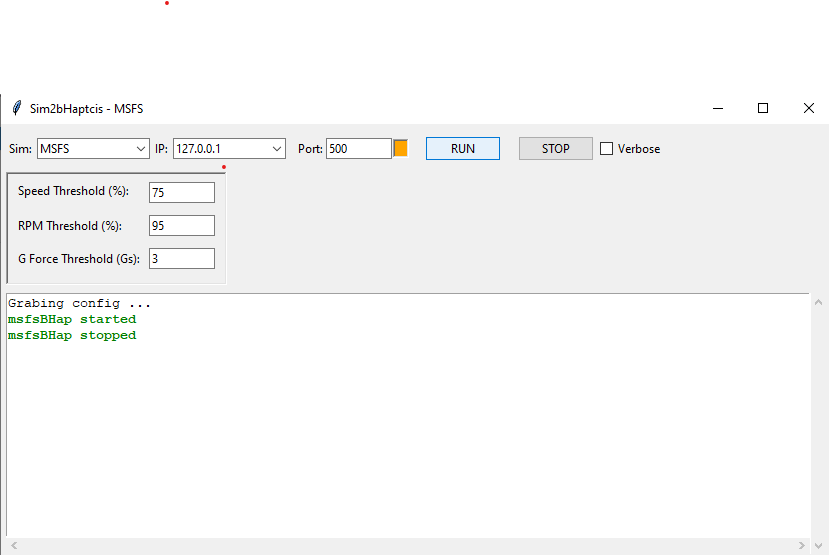
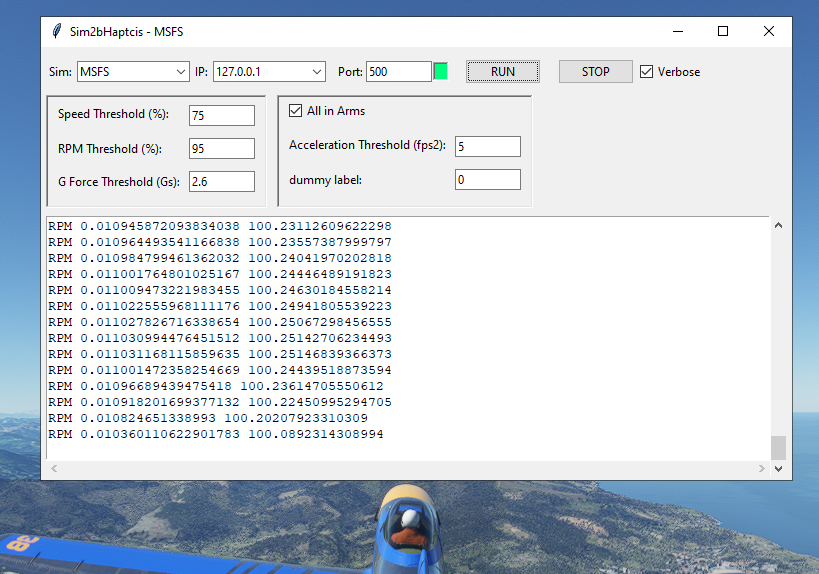
v0.2 with support for impacts, flaps and landing gear

diff --git a/sim2bhap/msfsBHap.py b/sim2bhap/msfsBHap.py
@@ -4,6 +4,7 @@ from simconnect import SimConnect, PERIOD_VISUAL_FRAME
 import haptic_player
 import os
 import time
+import math
 import traceback
 
 varList = ["GENERAL ENG PCT MAX RPM:1", "AIRSPEED MACH", "BARBER POLE MACH",
@@ -18,7 +19,7 @@ class Sim():
     self.rpmThreshold = 0.95
     self.gfeThreshold = 3
     self.fullArms = False
-    self.landThreshold = 1
+    self.landThreshold = 5
     self.player = haptic_player.HapticPlayer()
     
   def play(self, name, intensity, altname):
@@ -30,10 +31,11 @@ class Sim():
     self.cycle = 0
     self.ValueDict = {}
     self.sc = None
-    self.lastGeforce = None
+    self.lastAcel = None
+    self.lastFlapPos = None
+    self.lastGearPos = None
     errCode = 'valid'
     try:
-      print (self.gfeThreshold)
       #player.initialize()
       
       # tact file can be exported from bhaptics designer
@@ -41,6 +43,8 @@ class Sim():
       self.player.register("msfs_vrpm", "msfs_vrpm.tact")
       self.player.register("msfs_vgfe", "msfs_vgfe.tact")
       self.player.register("msfs_arpm", "msfs_arpm.tact")
+      self.player.register("msfs_vace", "msfs_vace.tact")
+      self.player.register("msfs_vfla", "msfs_vfla.tact")
       # open a connection to the SDK
       # or use as a context via `with SimConnect() as sc: ... `
       self.sc = SimConnect()
@@ -83,6 +87,25 @@ class Sim():
       
       for varName in self.datadef.simdata:
         self.ValueDict[varName] = self.datadef.simdata[varName]
+
+      impactForce = 0
+      acelX = self.datadef.simdata["ACCELERATION BODY X"]
+      acelZ = self.datadef.simdata["ACCELERATION BODY Z"]
+      acel2 = math.sqrt(abs(acelX*acelZ))
+      acelY = self.datadef.simdata["ACCELERATION BODY Y"]
+      acel = math.sqrt(abs(acelY*acel2))
+      if (self.lastAcel is not None):
+        acelChange = abs(acel - self.lastAcel)
+        impactForce = (acelChange - self.landThreshold) / 50.0
+      self.lastAcel = acel
+      
+      if impactForce > 0.1:
+        msg += "Ace {} {}\n".format(impactForce, acelChange)
+        self.play("msfs_arpm", impactForce, "alt1") 
+        self.play("msfs_vace", impactForce, "alt2") 
+
+      if self.cycle % 3 != 0:
+        return (msg, errCode)
    
       #self.latest = self.datadef.simdata.latest()
    
@@ -92,26 +115,16 @@ class Sim():
         if (speedVibration > 0.01):
           msg += "SPEED {} {}\n".format(speedVibration, self.datadef.simdata["AIRSPEED MACH"])
           if self.fullArms:
-            self.play("msfs_arpm", speedVibration, "alt1")
-          self.play("msfs_vvne", speedVibration, "alt2")
-          #player.submit_registered_with_option("msfs_vvne", "alt1",
-          #              scale_option={"intensity": speedVibration, "duration": 1},
-          #              rotation_option={"offsetAngleX": 0, "offsetY": 0})
+            self.play("msfs_arpm", speedVibration, "alt3")
+          self.play("msfs_vvne", speedVibration, "alt4")
                       
       engineVibration = self.datadef.simdata["GENERAL ENG PCT MAX RPM:1"]/100 - self.rpmThreshold
       if (engineVibration > 0):
         engineVibration = engineVibration * engineVibration * 4
         if (engineVibration > 0.01):
           msg += "RPM {} {}\n".format(engineVibration, self.datadef.simdata["GENERAL ENG PCT MAX RPM:1"])
-          self.play("msfs_arpm", engineVibration, "alt3")
-          self.play("msfs_vrpm", engineVibration, "alt4")
-          #player.submit_registered_with_option("msfs_vrpm", "alt2",
-          #              scale_option={"intensity": engineVibration, "duration": 1},
-          #              rotation_option={"offsetAngleX": 0, "offsetY": 0})
-   
-
-       
-      self.lastGeforce = self.datadef.simdata["G FORCE"]
+          self.play("msfs_arpm", engineVibration, "alt5")
+          self.play("msfs_vrpm", engineVibration, "alt6")
    
       gForceVibration = (self.datadef.simdata["G FORCE"] - self.gfeThreshold) / 8
       if (gForceVibration > 0):
@@ -119,11 +132,27 @@ class Sim():
         if (gForceVibration > 0.01):
           msg += "GFe {} {}\n".format(gForceVibration, self.datadef.simdata["G FORCE"])
           if self.fullArms:
-            self.play("msfs_arpm", gForceVibration, "alt5")
-          self.play("msfs_vgfe", gForceVibration, "alt6")
-          #player.submit_registered_with_option("msfs_vgfe", "alt4",
-          #              scale_option={"intensity": gForceVibration, "duration": 1},
-          #              rotation_option={"offsetAngleX": 0, "offsetY": 0})
+            self.play("msfs_arpm", gForceVibration, "alt7")
+          self.play("msfs_vgfe", gForceVibration, "alt8")
+
+      flapsChange = 0
+      flapPos = self.datadef.simdata["TRAILING EDGE FLAPS LEFT PERCENT"]
+      if (self.lastFlapPos is not None):
+        flapsChange = abs(flapPos - self.lastFlapPos)
+      self.lastFlapPos = flapPos
+
+      gearChange  = 0
+      gearPos = self.datadef.simdata["GEAR LEFT POSITION"]
+      if (self.lastGearPos is not None):
+        gearChange = abs(gearPos - self.lastGearPos)
+        print(gearChange)
+      self.lastGearPos = gearPos
+      
+      if (flapsChange > 0.005) or (gearChange > 0.005):
+        msg += "Flp {} {} {} {}\n".format(flapsChange, flapPos, gearChange, gearPos)
+        if self.fullArms:
+          self.play("msfs_arpm", 0.1, "alt9") 
+        self.play("msfs_vfla", 0.5, "alt10") 
 
     except Exception as excp:
       errCode = 'error'

diff --git a/sim2bhap/Sim2bHap.py b/sim2bhap/Sim2bHap.py
@@ -8,7 +8,7 @@ ancho = 160
 alto =  16
 windowTitleBase = "Sim2bHaptcis"
 autoScroll = True
-cycleTime = 0.125
+cycleTime = 0.042
 configFile = 'Sim2bHap.ini'
 logfile    = 'Sim2bHap.log'
 hostListValid = ['127.0.0.1']
@@ -17,7 +17,7 @@ speedThreshold = 75
 rpmThreshold = 95  
 gfeThreshold = 3 
 fullArms = False
-landThreshold = 1
+landThreshold = 5
 #########################################
 
 import os, sys, os.path
@@ -318,7 +318,7 @@ if __name__ == "__main__":
     arms.grid(row=1, column=0, columnspan=2, padx=(10,2), pady=5, sticky=W)
     varArms.set(fullArms)
     
-    landingLabel = Label(f1_1, text="Landing Threshold (fps2): ")
+    landingLabel = Label(f1_1, text="Acceleration Threshold (fps2): ")
     landingLabel.grid(row=2, column=0, padx=(10,2), pady=3, sticky=W)
     landingEntry = Entry(f1_1, width=10)
     landingEntry.grid(row=2, column=1, padx=2, pady=(10,6), sticky=W)

diff --git a/README.md b/README.md
@@ -11,10 +11,9 @@ Actually it supports 3 patterns in the Vest:
 
 - When the plane aproaches non exceed speed, my back starts vibrating gradually.
 - When the RPM exceed 95%, my chest starts vibrating gradually
-- Whem G's exceed 3, my belly starts vibrating gradually
+- When G's exceed 3, my belly starts vibrating gradually
+- When acceleration changes to quickly (impact?), all vibrates
+- Vibration when flaps and landing gear ara moving
 
-## For distribution without need to install python
-
-pyinstaller Sim2bHap.py  --add-data "scvars.json;." --add-data "scvars_idx.json;." --hidden-import=simconnect -w
 
 ![Sim2bHap screenshot](/assets/images/Sim2bHap.png)
